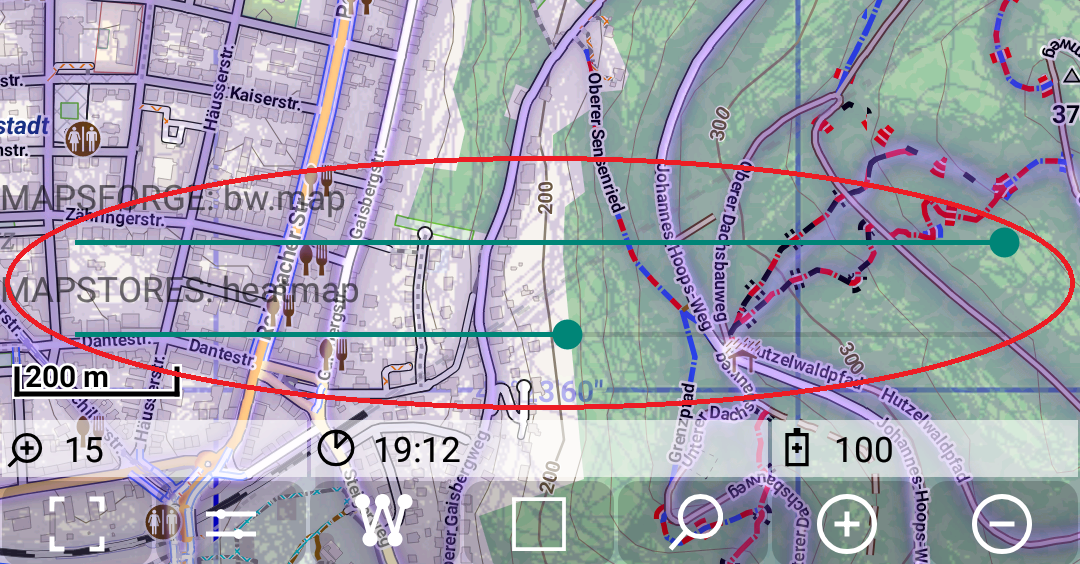
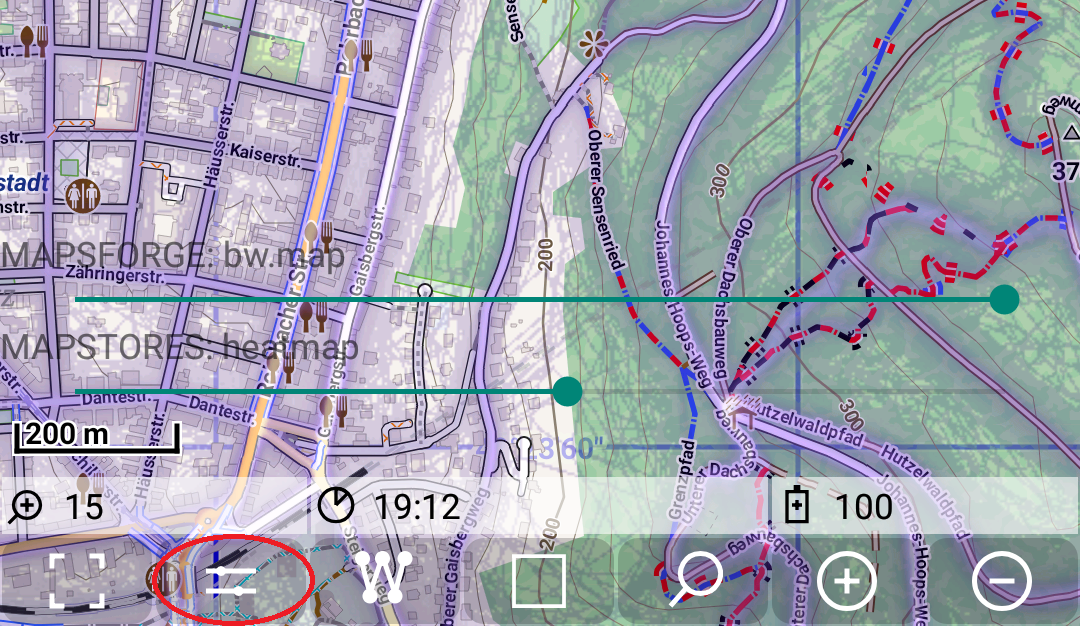
docware

diff --git a/docs/Features/MainMapFeatures/MapMulti/multimap.md b/docs/Features/MainMapFeatures/MapMulti/multimap.md
@@ -11,8 +11,10 @@ we can get the following picture:
 
 <img src="./multi_map1.png" width="400" />
 
-For each tile-based layer (mapsforge, mapstore, maponline) we can get a slider to control the 
-transparency of this layer as it is for </br>the "MAPSFORGE: bw.map" layer and the "MAPSTORES: heatmap" layer in the example above.
+For each tile-based layer (mapsforge, mapstore, maponline) we can get a
+slider to control the transparency of this layer as it is for the
+"MAPSFORGE:&nbsp;bw.map" layer and the "MAPSTORES:&nbsp;heatmap" layer in the
+example above.
 
 You can toggle the visibility of these sliders via the second quick control:
 

diff --git a/docs/Features/MainMapFeatures/MapOnline/maponline.md b/docs/Features/MainMapFeatures/MapOnline/maponline.md
@@ -1,8 +1,9 @@
 ## Main map Feature: maponline
 
-A maponline layer consists of a directory with the name of the layer. This is a direct subdirectory of ./MGMapViewer/maps/maponline.
-Inside of this directory there is a description file with the fix name `config.xml`.
-Such a [config.xml](./config.xml) looks like:
+A maponline layer consists of a directory with the name of the layer.
+This is a direct subdirectory of ./MGMapViewer/maps/maponline. Inside of
+this directory there is a description file with the fix name
+`config.xml`. The content of this file looks like:
 
 ```
 <tilesource>
